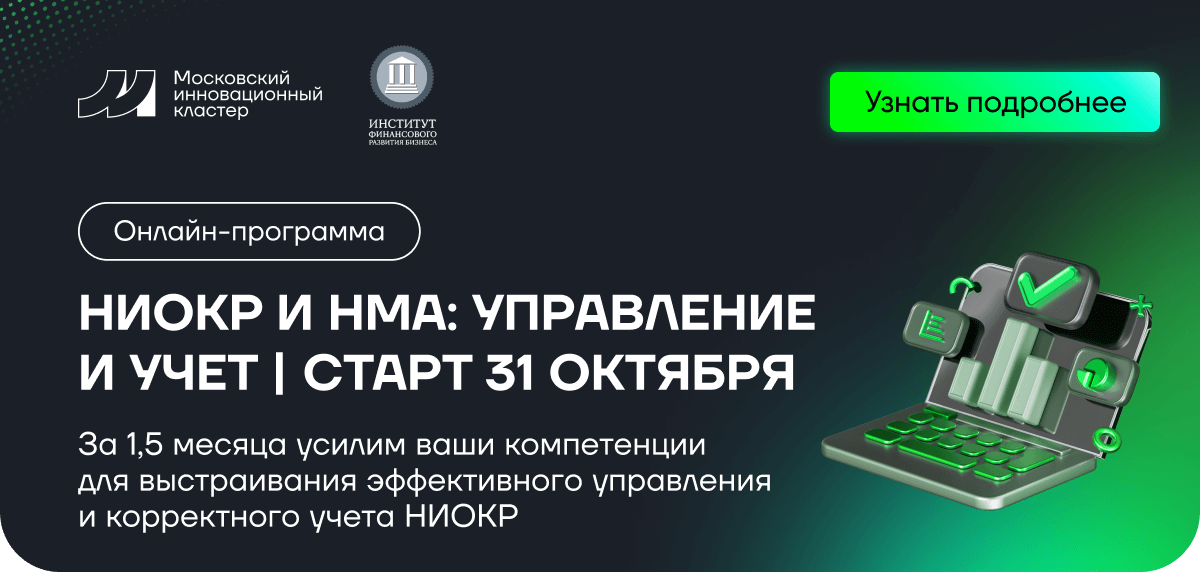
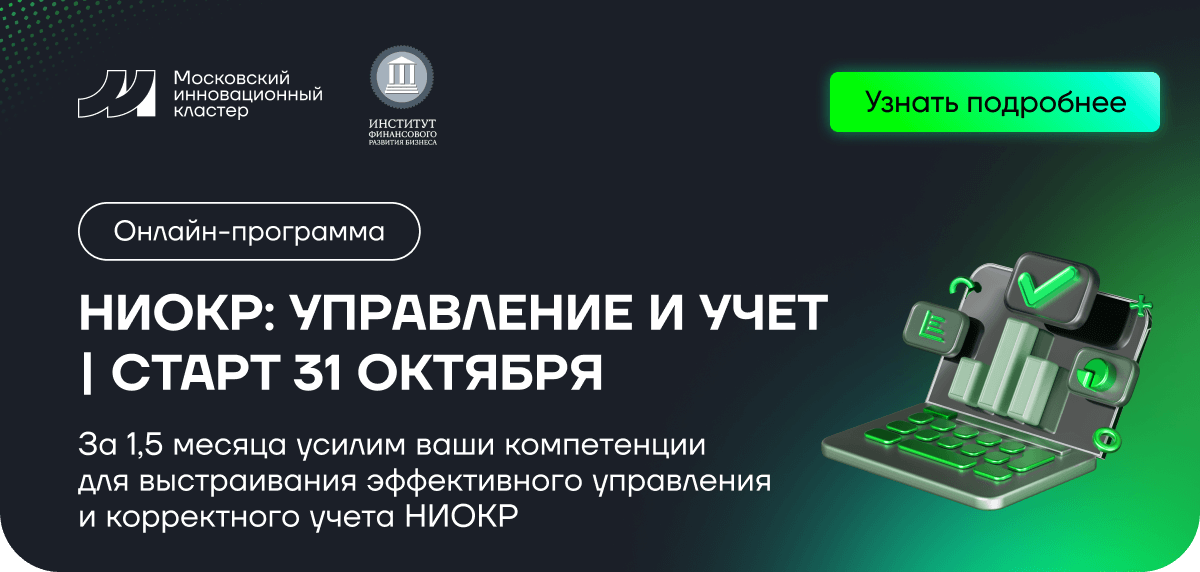
change mik-279

Changed region(s): [[0.0617, 0.5052, 0.7092, 0.6836]]

diff --git a/mik-279/НИОКР и НМА.html b/mik-279/НИОКР и НМА.html
@@ -102,8 +102,8 @@
                                         <tbody>
                                         <tr>
                                             <td style="width:600px;">]
-                                                <a href="https://i.moscow/measure-supports/site/form/dbcc0e94b0214333bea89e37fb012b77?utm_source=marketing&utm_medium=email&utm_campaign=digital&utm_content=rnd&utm_term=22102025" target="_blank">
-                                                    <img alt="Онлайн-программа НИОКР и НМА: управление  и учет | старт 31 октября. За 1,5 месяца усилим ваши компетенции для выстраивания эффективного управления и корректного учета НИОКР. Нажмите здесь, чтобы узнать подробнее." height="auto" src="https://cp.unisender.com/ru/user_file?resource=images&user_id=5608985&name=mik-279-hero.png" style="border:0;display:block;outline:none;text-decoration:none;height:auto;width:100%;font-size:13px;" width="600" />
+                                                <a href="https://i.moscow/techmarket/rndaccounting?utm_source=marketing&utm_medium=email&utm_campaign=digital&utm_content=rnd&utm_term=22102025" target="_blank">
+                                                    <img alt="Онлайн-программа НИОКР: управление и учет | старт 31 октября. За 1,5 месяца усилим ваши компетенции для выстраивания эффективного управления и корректного учета НИОКР. Нажмите здесь, чтобы узнать подробнее." height="auto" src="https://cp.unisender.com/ru/user_file?resource=images&user_id=5608985&name=mik-279-hero.png" style="border:0;display:block;outline:none;text-decoration:none;height:auto;width:100%;font-size:13px;" width="600" />
                                                 </a>
                                             </td>
                                         </tr>
@@ -125,49 +125,14 @@
         <table align="center" border="0" cellpadding="0" cellspacing="0" role="presentation" style="width:100%;box-shadow: 0px 0px 20px 0px rgba(0, 0, 0, 0.05);border-radius:20px;">
             <tbody>
             <tr>
-                <td style="direction:ltr;font-size:0px;padding:19px 24px 17px;">
+                <td style="direction:ltr;font-size:0px;padding:19px 15px 17px 24px;">
                     <!--[if mso | IE]><table role="presentation" border="0" cellpadding="0" cellspacing="0"><tr><td class="" style="vertical-align:top;width:100%" ><![endif]-->
                     <div class="mj-outlook-group-fix" style="font-size:0px;text-align:left;direction:ltr;display:inline-block;vertical-align:top;width:100%;">
                         <table border="0" cellpadding="0" cellspacing="0" role="presentation" style="vertical-align:top;" width="100%">
                             <tbody>
                             <tr>
-                                <td align="left" style="font-size:0px;word-break:break-word;padding-bottom:17px;">
-                                    <div style="font-family: Gilroy, Helvetica, Arial, sans-serif;font-size:16px;font-weight:400;line-height:120%;text-align:left;color:#000000;">Часто компания активно занимается исследованиями и&nbsp;разработками, но&nbsp;этот потенциал так и&nbsp;не&nbsp;превращается в&nbsp;реальную прибыль и&nbsp;рост стоимости бизнеса. Или когда права на&nbsp;результаты интеллектуальной деятельности оформлены с&nbsp;ошибками – и&nbsp;часть наработок просто теряется. А&nbsp;иногда из-за неточного учета НИОКР компания получает штрафы или не&nbsp;может получить субсидию.</div>
-                                </td>
-                            </tr>
-                            <tr>
                                 <td align="left" style="font-size:0px;word-break:break-word;">
-                                    <div style="font-family: Gilroy, Helvetica, Arial, sans-serif;font-size:16px;font-weight:400;line-height:120%;text-align:left;color:#000000;">Чтобы избежать таких ситуаций, Московский инновационный кластер запустил бесплатную образовательную программу.<br/>Она поможет разобраться, как правильно управлять и&nbsp;учитывать результаты НИОКР и&nbsp;нематериальные активы, чтобы разработки действительно работали на&nbsp;рост бизнеса.</div>
-                                </td>
-                            </tr>
-                            </tbody>
-                        </table>
-                    </div>
-                    <!--[if mso | IE]></td></tr></table><![endif]-->
-                </td>
-            </tr>
-            </tbody>
-        </table>
-    </div>
-    <!--[if mso | IE]></td></tr></table><table align="center" border="0" cellpadding="0" cellspacing="0" class="" style="width:600px;" width="600" ><tr><td style="line-height:0px;font-size:0px;mso-line-height-rule:exactly;"><![endif]-->
-    <div style="margin:0px auto;max-width:600px;">
-        <table align="center" border="0" cellpadding="0" cellspacing="0" role="presentation" style="width:100%;">
-            <tbody>
-            <tr>
-                <td style="direction:ltr;font-size:0px;padding:0 20px;">
-                    <!--[if mso | IE]><table role="presentation" border="0" cellpadding="0" cellspacing="0"><tr><td class="" style="vertical-align:top;width:600px;" ><![endif]-->
-                    <div class="mj-column-per-100 mj-outlook-group-fix" style="font-size:0px;text-align:left;direction:ltr;display:inline-block;vertical-align:top;width:100%;">
-                        <table border="0" cellpadding="0" cellspacing="0" role="presentation" style="vertical-align:top;" width="100%">
-                            <tbody>
-                            <tr>
-                                <td align="center" vertical-align="middle" style="font-size:0px;word-break:break-word;padding:30px 0 0;">
-                                    <table border="0" cellpadding="0" cellspacing="0" role="presentation" style="border-collapse:separate;max-width:350px;width:100%;line-height:100%;">
-                                        <tr>
-                                            <td align="center" bgcolor="linear-gradient(80deg, #00FB07 34.41%, #00FED9 85.02%, #9FFFF6 103.22%)" role="presentation" style="border:none;border-radius:10px;cursor:auto;height:50px;mso-padding-alt:10px 25px;background:linear-gradient(80deg, #00FB07 34.41%, #00FED9 85.02%, #9FFFF6 103.22%);" valign="middle">
-                                                <a href="https://i.moscow/measure-supports/site/form/dbcc0e94b0214333bea89e37fb012b77?utm_source=marketing&utm_medium=email&utm_campaign=digital&utm_content=rnd&utm_term=22102025" style="display:inline-block;color:#000000;font-family: Gilroy, Helvetica, Arial, sans-serif;font-size:25px;font-weight:600;line-height:120%;margin:0;text-decoration:none;text-transform:none;mso-padding-alt:0px;border-radius:5px;" target="_blank">Начать обучение</a>
-                                            </td>
-                                        </tr>
-                                    </table>
+                                    <div style="font-family: Gilroy, Helvetica, Arial, sans-serif;font-size:16px;font-weight:400;line-height:120%;text-align:left;color:#000000;">Московский инновационный кластер запустил бесплатную образовательную программу. Её цель — помочь компаниям избежать потери прибыли, отклонениязаявок грантовые программы, штрафов и&nbsp;утери прав на&nbsp;интеллектуальную собственность из-за ошибок в&nbsp;учете и&nbsp;управлении НИОКР и&nbsp;нематериальными активами.</div>
                                 </td>
                             </tr>
                             </tbody>
@@ -452,7 +417,7 @@
                                     <table border="0" cellpadding="0" cellspacing="0" role="presentation" style="border-collapse:separate;max-width:350px;width:100%;line-height:100%;">
                                         <tr>
                                             <td align="center" bgcolor="linear-gradient(80deg, #00FB07 34.41%, #00FED9 85.02%, #9FFFF6 103.22%)" role="presentation" style="border:none;border-radius:10px;cursor:auto;height:50px;mso-padding-alt:10px 25px;background:linear-gradient(80deg, #00FB07 34.41%, #00FED9 85.02%, #9FFFF6 103.22%);" valign="middle">
-                                                <a href="https://i.moscow/measure-supports/site/form/dbcc0e94b0214333bea89e37fb012b77?utm_source=marketing&utm_medium=email&utm_campaign=digital&utm_content=rnd&utm_term=22102025" style="display:inline-block;color:#000000;font-family: Gilroy, Helvetica, Arial, sans-serif;font-size:25px;font-weight:600;line-height:120%;margin:0;text-decoration:none;text-transform:none;mso-padding-alt:0px;border-radius:5px;" target="_blank">Подробнее</a>
+                                                <a href="https://i.moscow/techmarket/rndaccounting?utm_source=marketing&utm_medium=email&utm_campaign=digital&utm_content=rnd&utm_term=22102025" style="display:inline-block;color:#000000;font-family: Gilroy, Helvetica, Arial, sans-serif;font-size:25px;font-weight:600;line-height:120%;margin:0;text-decoration:none;text-transform:none;mso-padding-alt:0px;border-radius:5px;" target="_blank">Подробнее</a>
                                             </td>
                                         </tr>
                                     </table>
